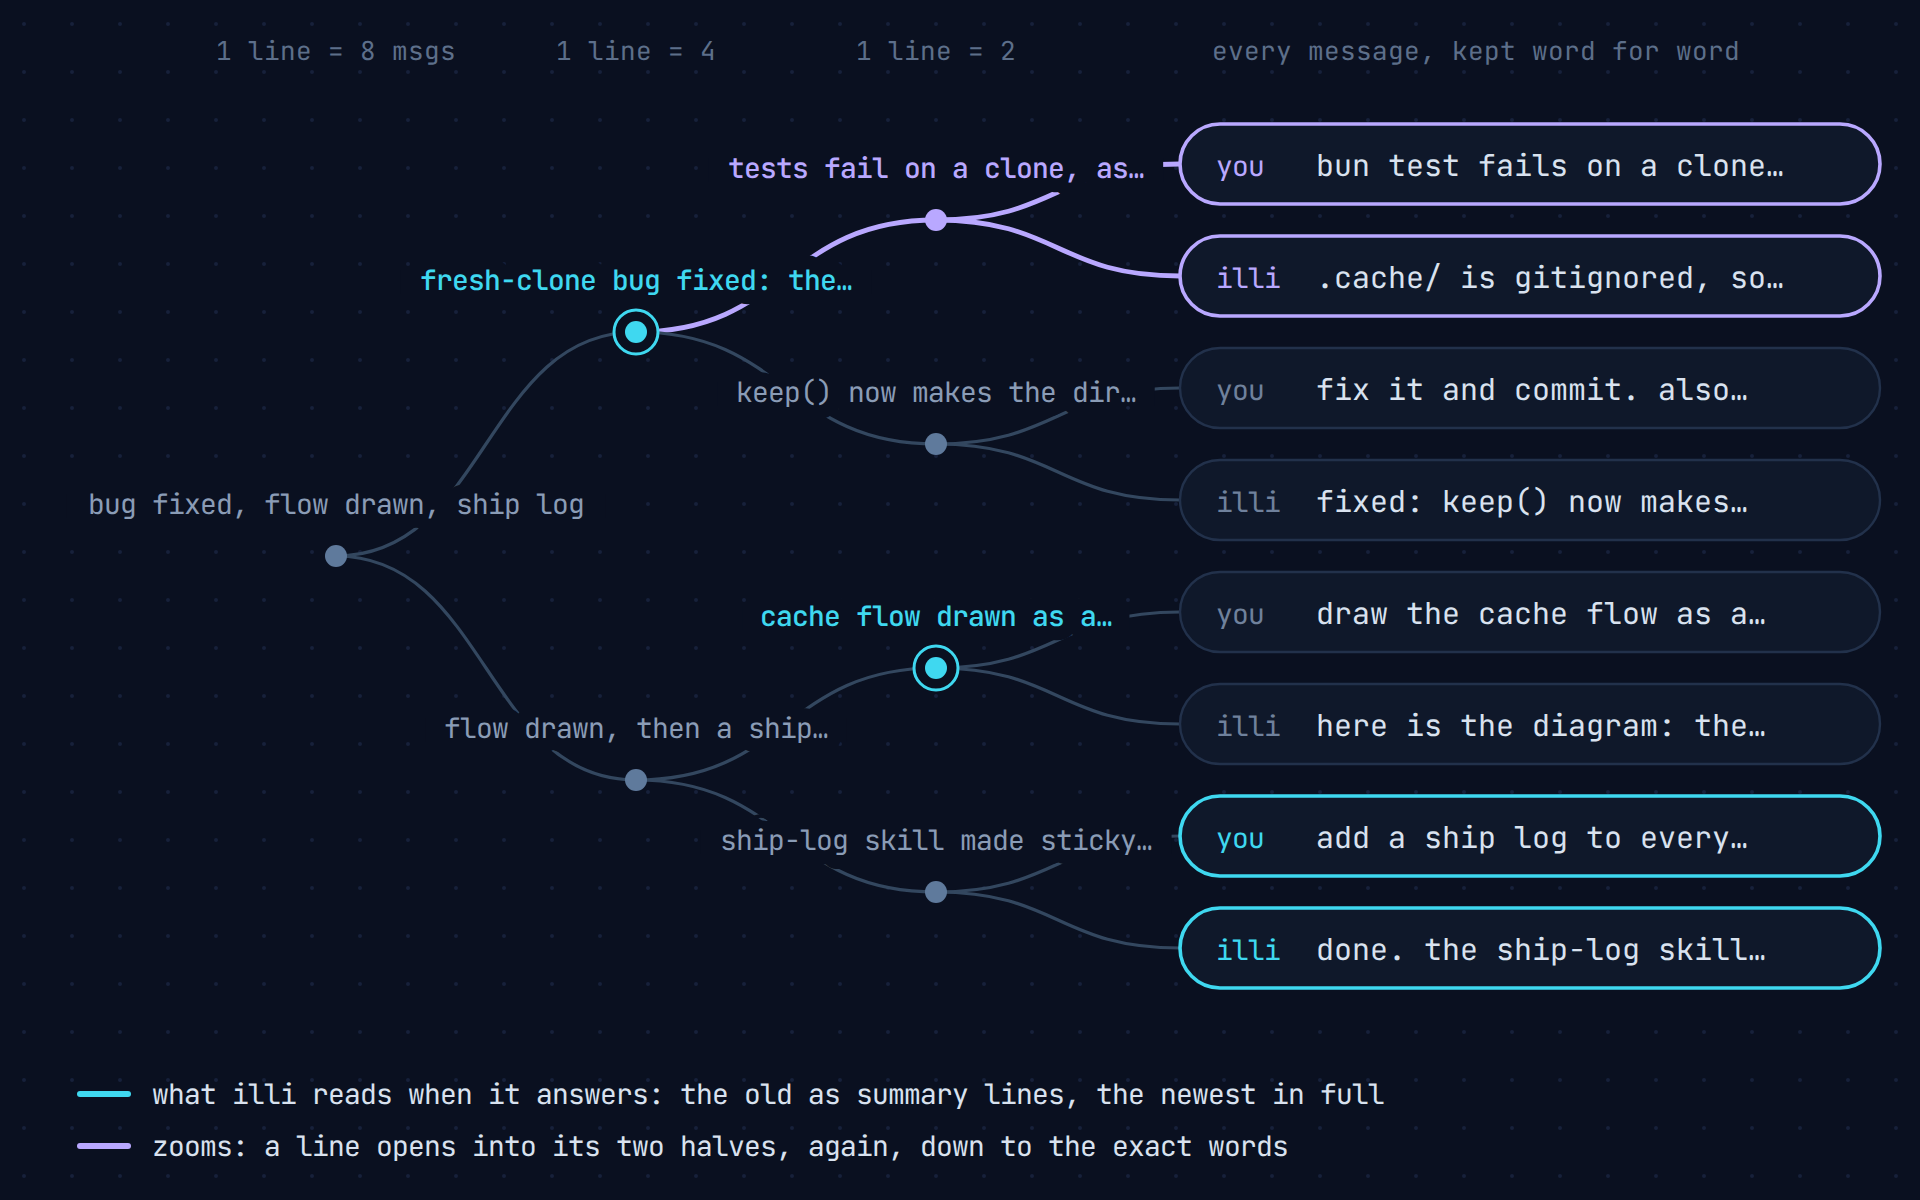
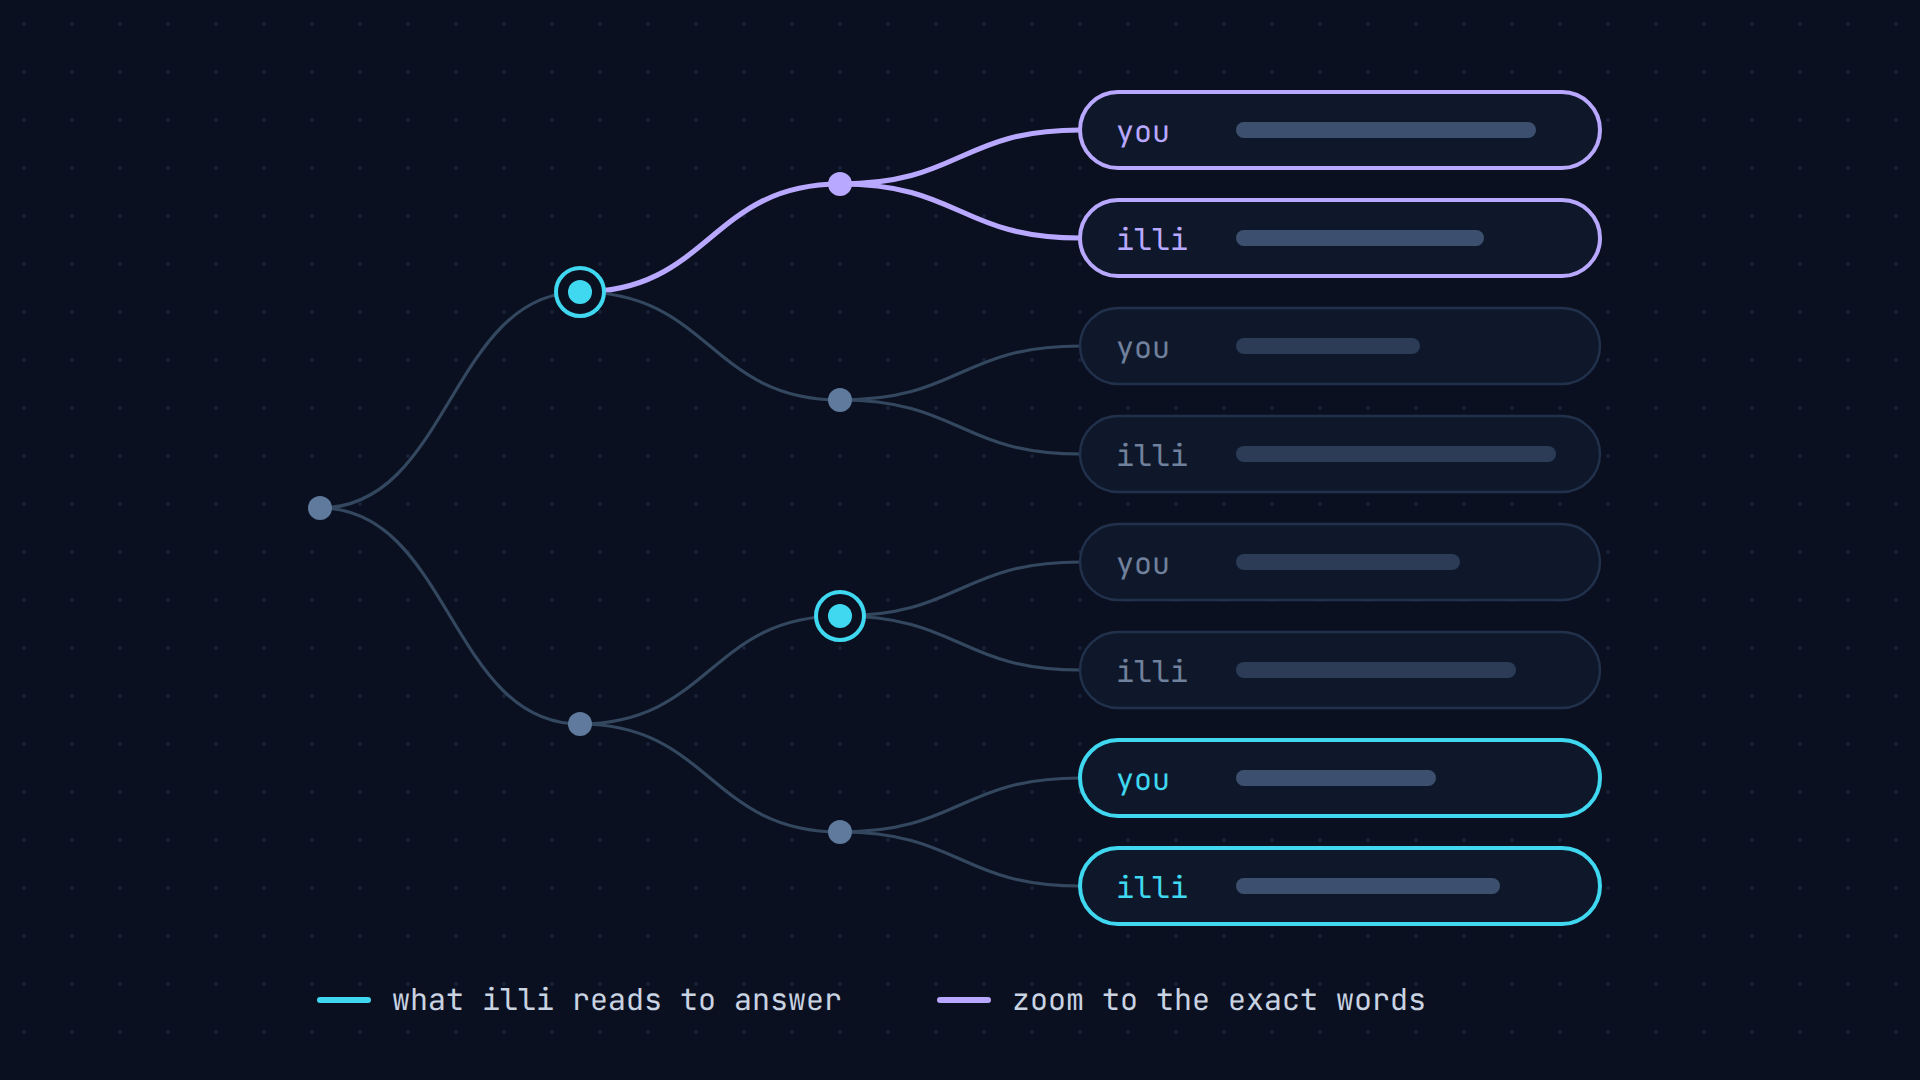
The memory tree image says almost nothing, and the README no more than once
The drawing keeps the shape and the two colours only: messages, the
lines over them, what illi reads to answer, and a zoom to the exact
words. The paragraph explaining it goes: the one above already does.

diff --git a/README.md b/README.md
@@ -40,14 +40,7 @@ answers, so not even a crash loses one. Old messages fold into a tree
 of summary lines, coarser with age, and any line unfolds back to the
 exact words.
 
-![illi's memory tree: eight messages on the right, kept word for word; summary lines to their left, each covering twice the messages of the column to its right, up to one line for all eight; in cyan, what illi reads when it answers; in violet, zooms from a line down to two of its messages](assets/screens/memory-tree.webp)
-
-Read it right to left. Each message, kept word for word, gets a line
-of its own: the message itself if it is short, else a summary of it.
-Two lines fold into one, and so on up. Each time illi answers, it
-reads the older messages as summary lines and the newest in full
-(cyan), and it can zoom any line down, half by half, to the exact
-words (violet).
+![illi's memory tree: eight messages on the right; to their left, lines that each cover the two beside them, up to one line for all eight; in cyan, what illi reads to answer; in violet, zooming from a line down to two of its messages](assets/screens/memory-tree.webp)
 
 The tree only ever grows at its end, so nearly every call is a prompt
 cache hit: a chat a year long stays fast and cheap.
